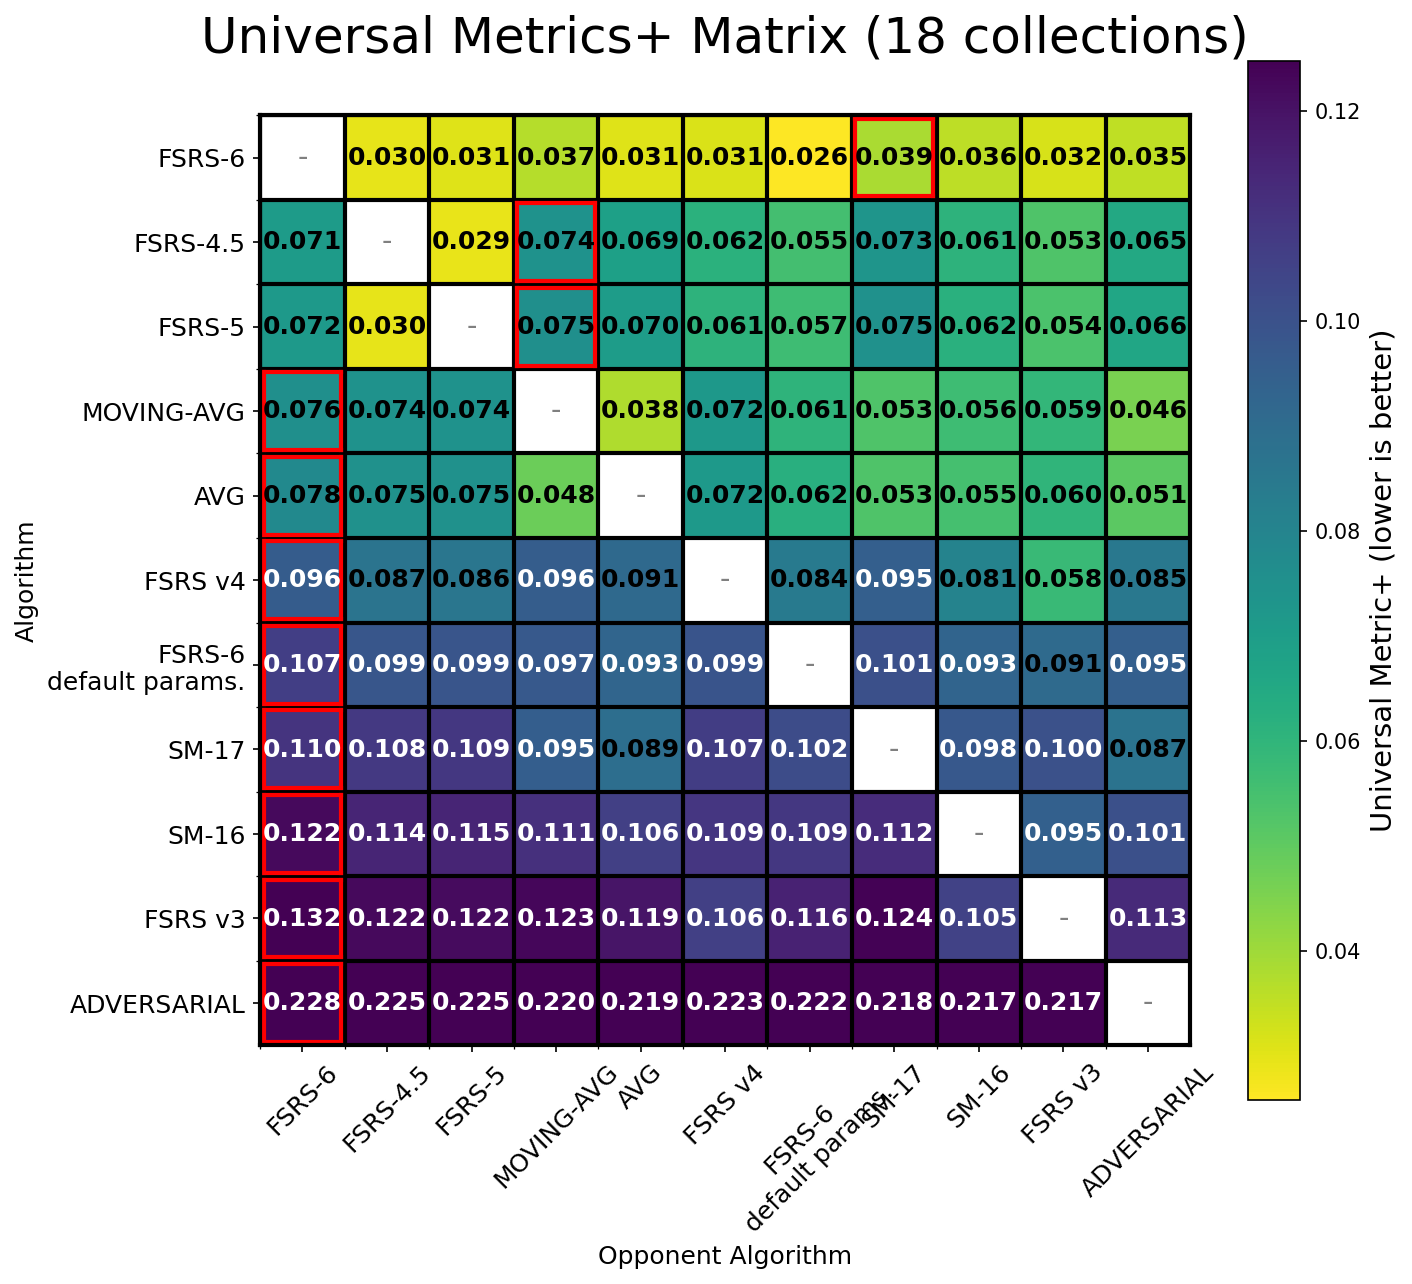
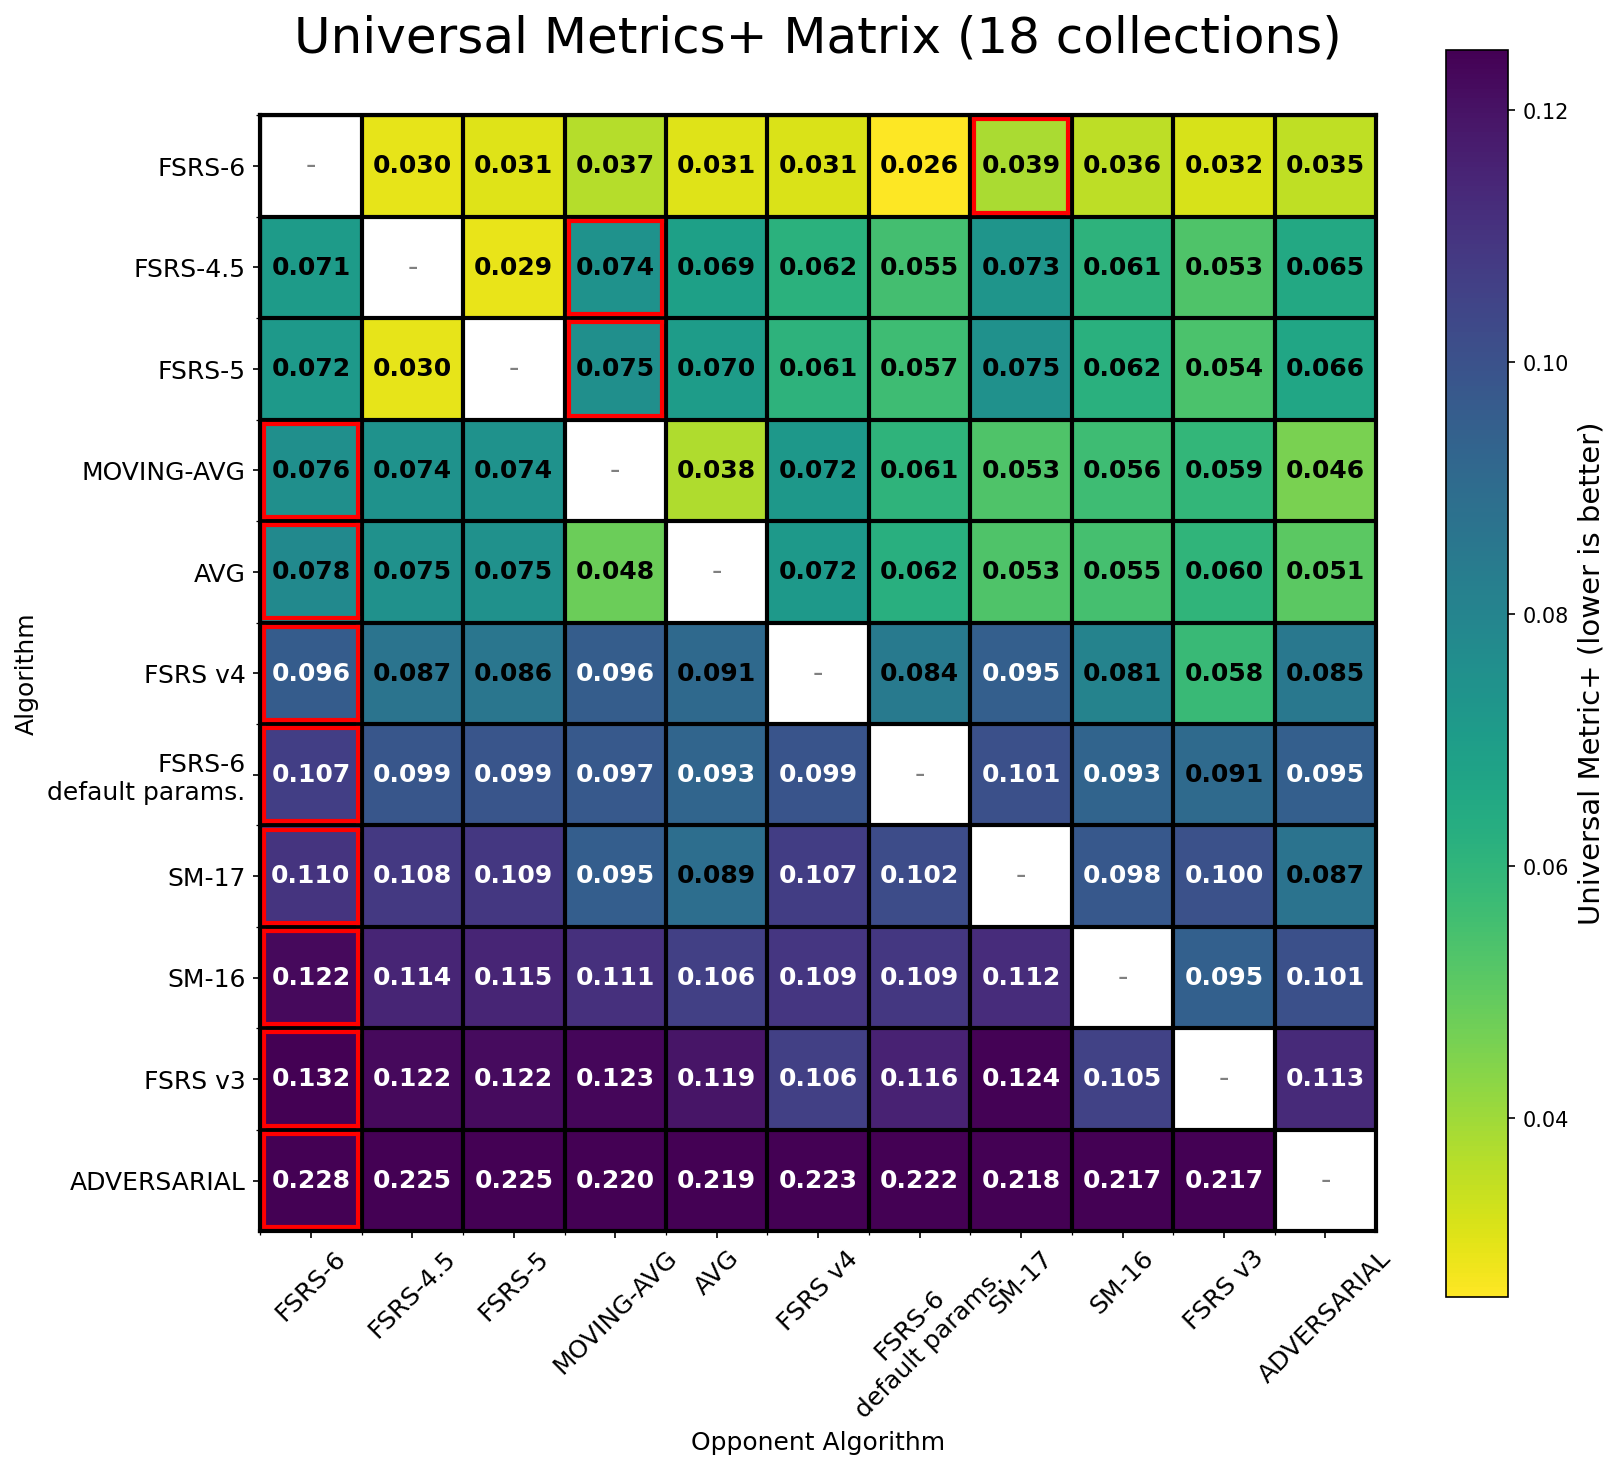
Format plot

diff --git a/plot.py b/plot.py
@@ -682,7 +682,7 @@ if __name__ == "__main__":
                         um_plus_matrix[i, j] = um_plus_matrix_data[metric_name_plus]
 
         # Create heatmap
-        fig, ax = plt.subplots(figsize=(10, 9), dpi=150)
+        fig, ax = plt.subplots(figsize=(12, 10.8), dpi=150)
         ax.set_title(
             f"Universal Metrics+ Matrix ({n_collections} collections)",
             fontsize=24,
